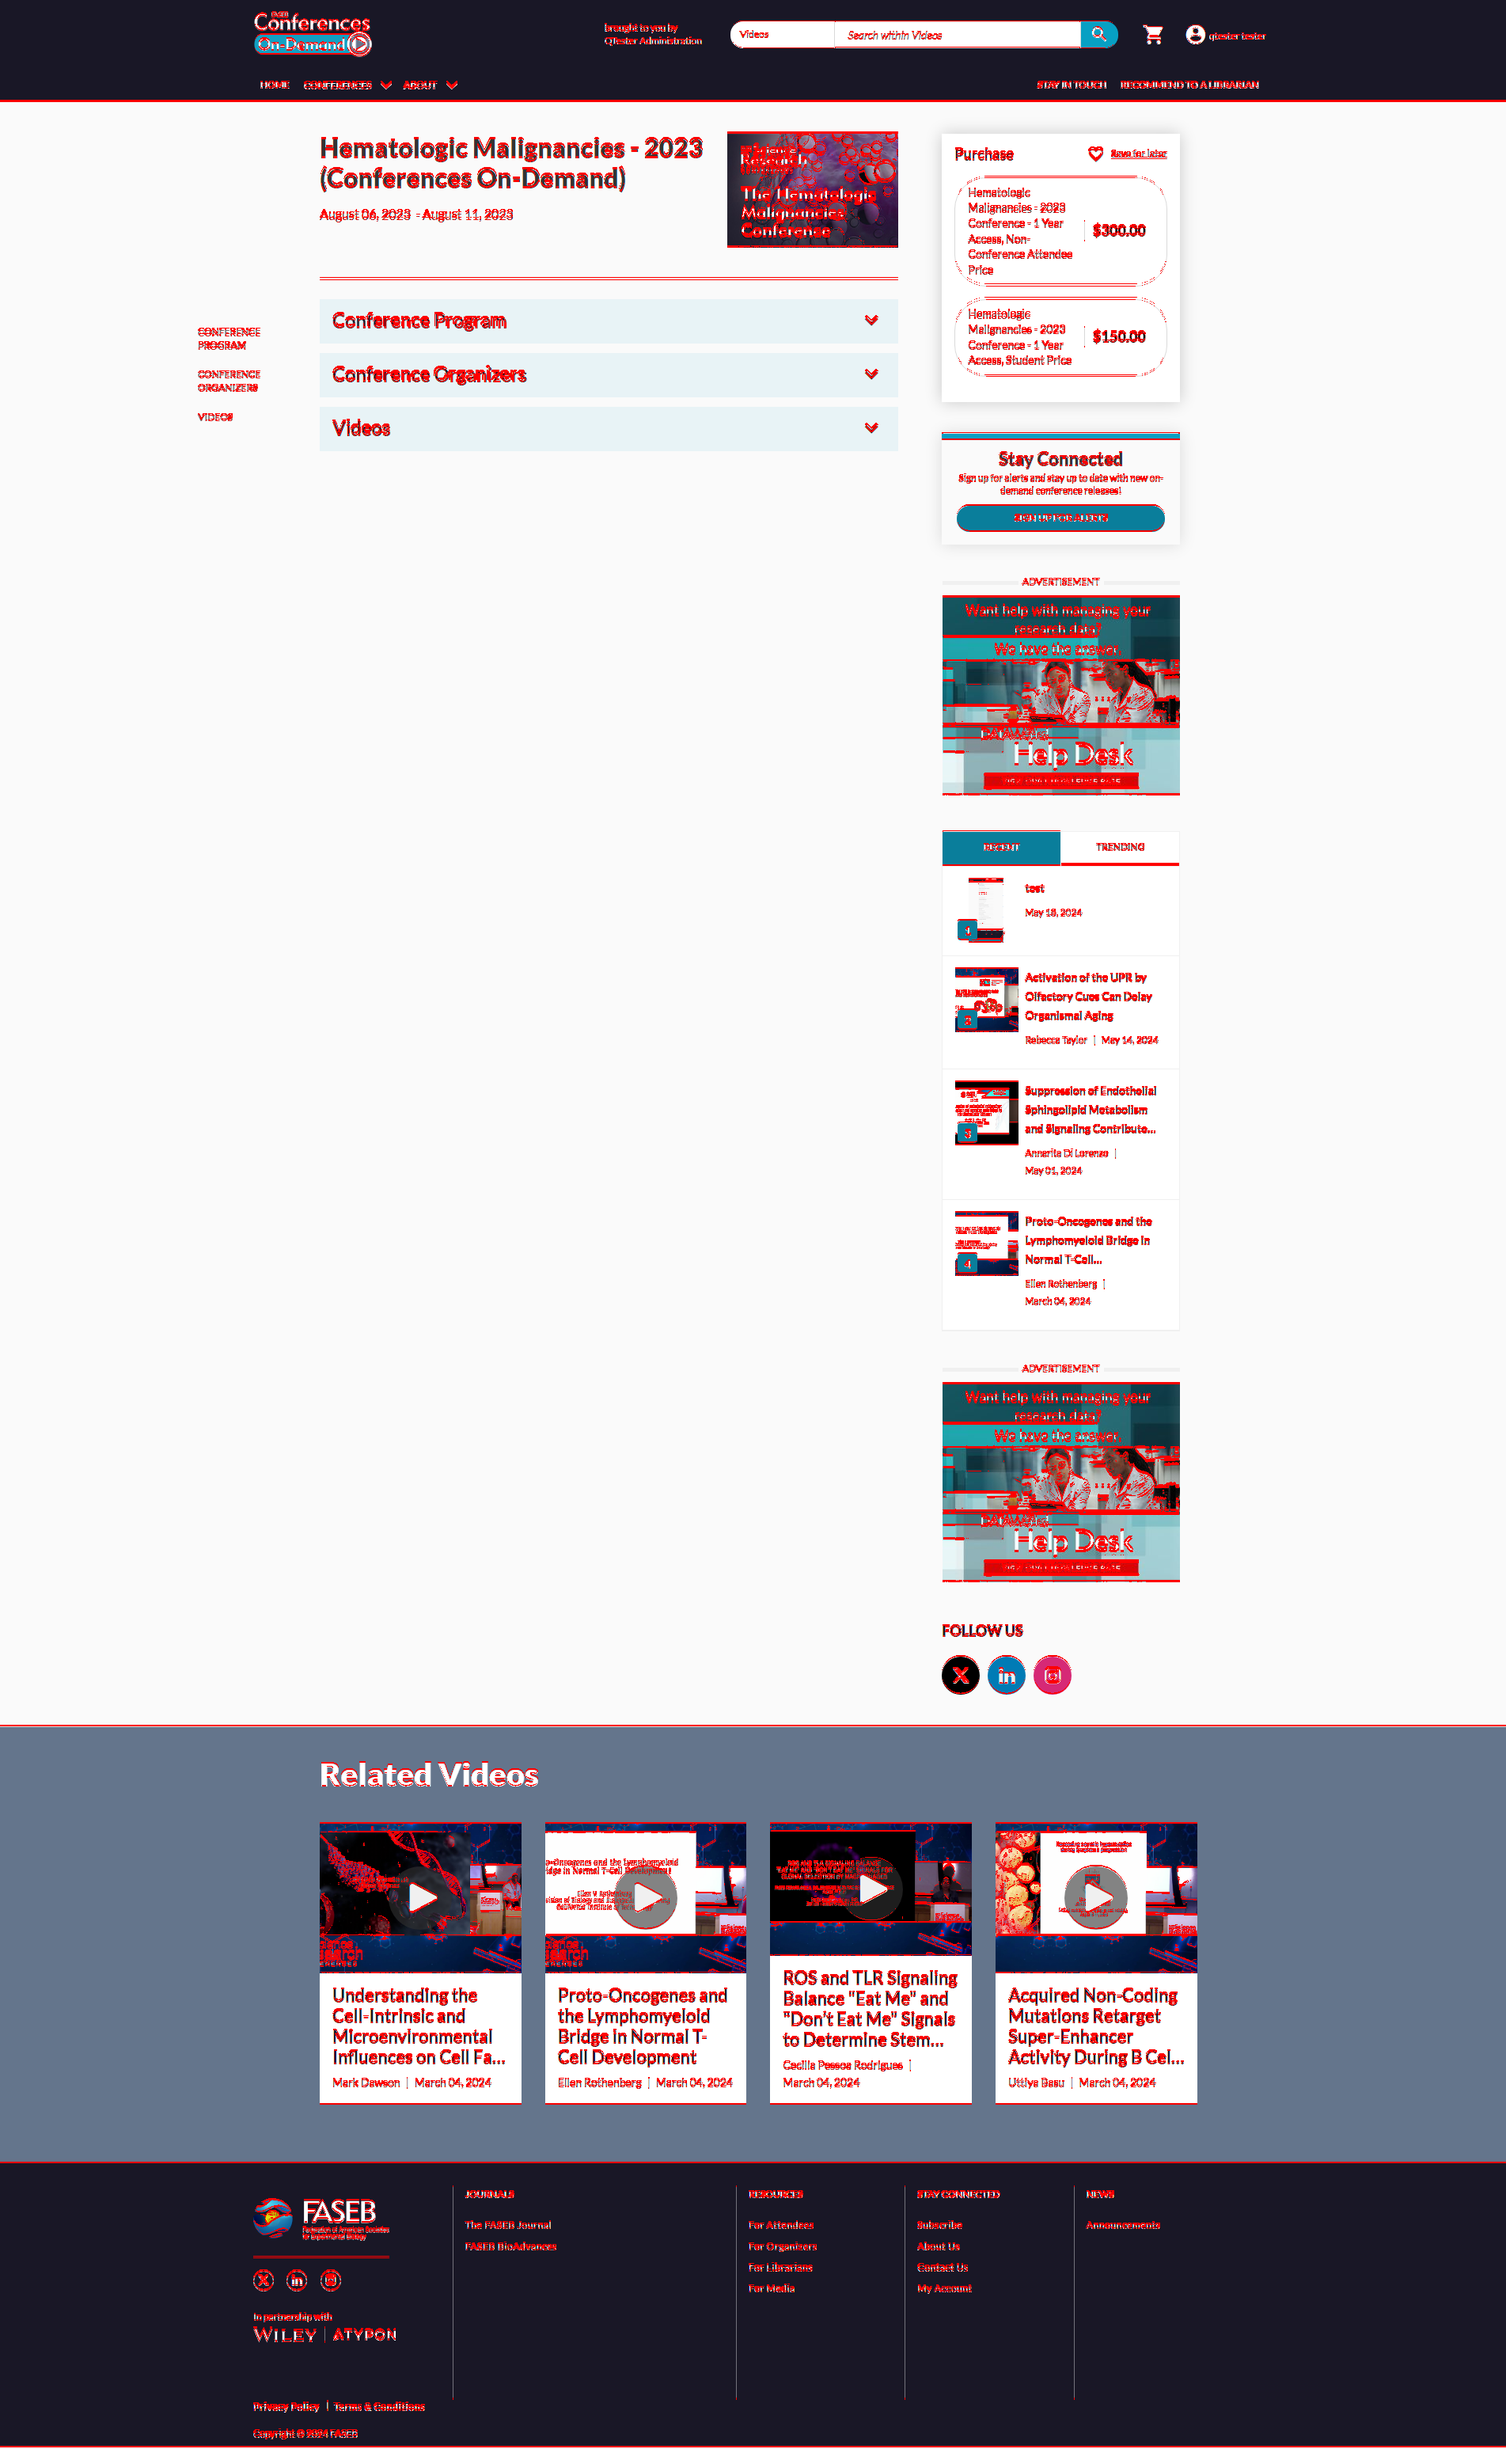
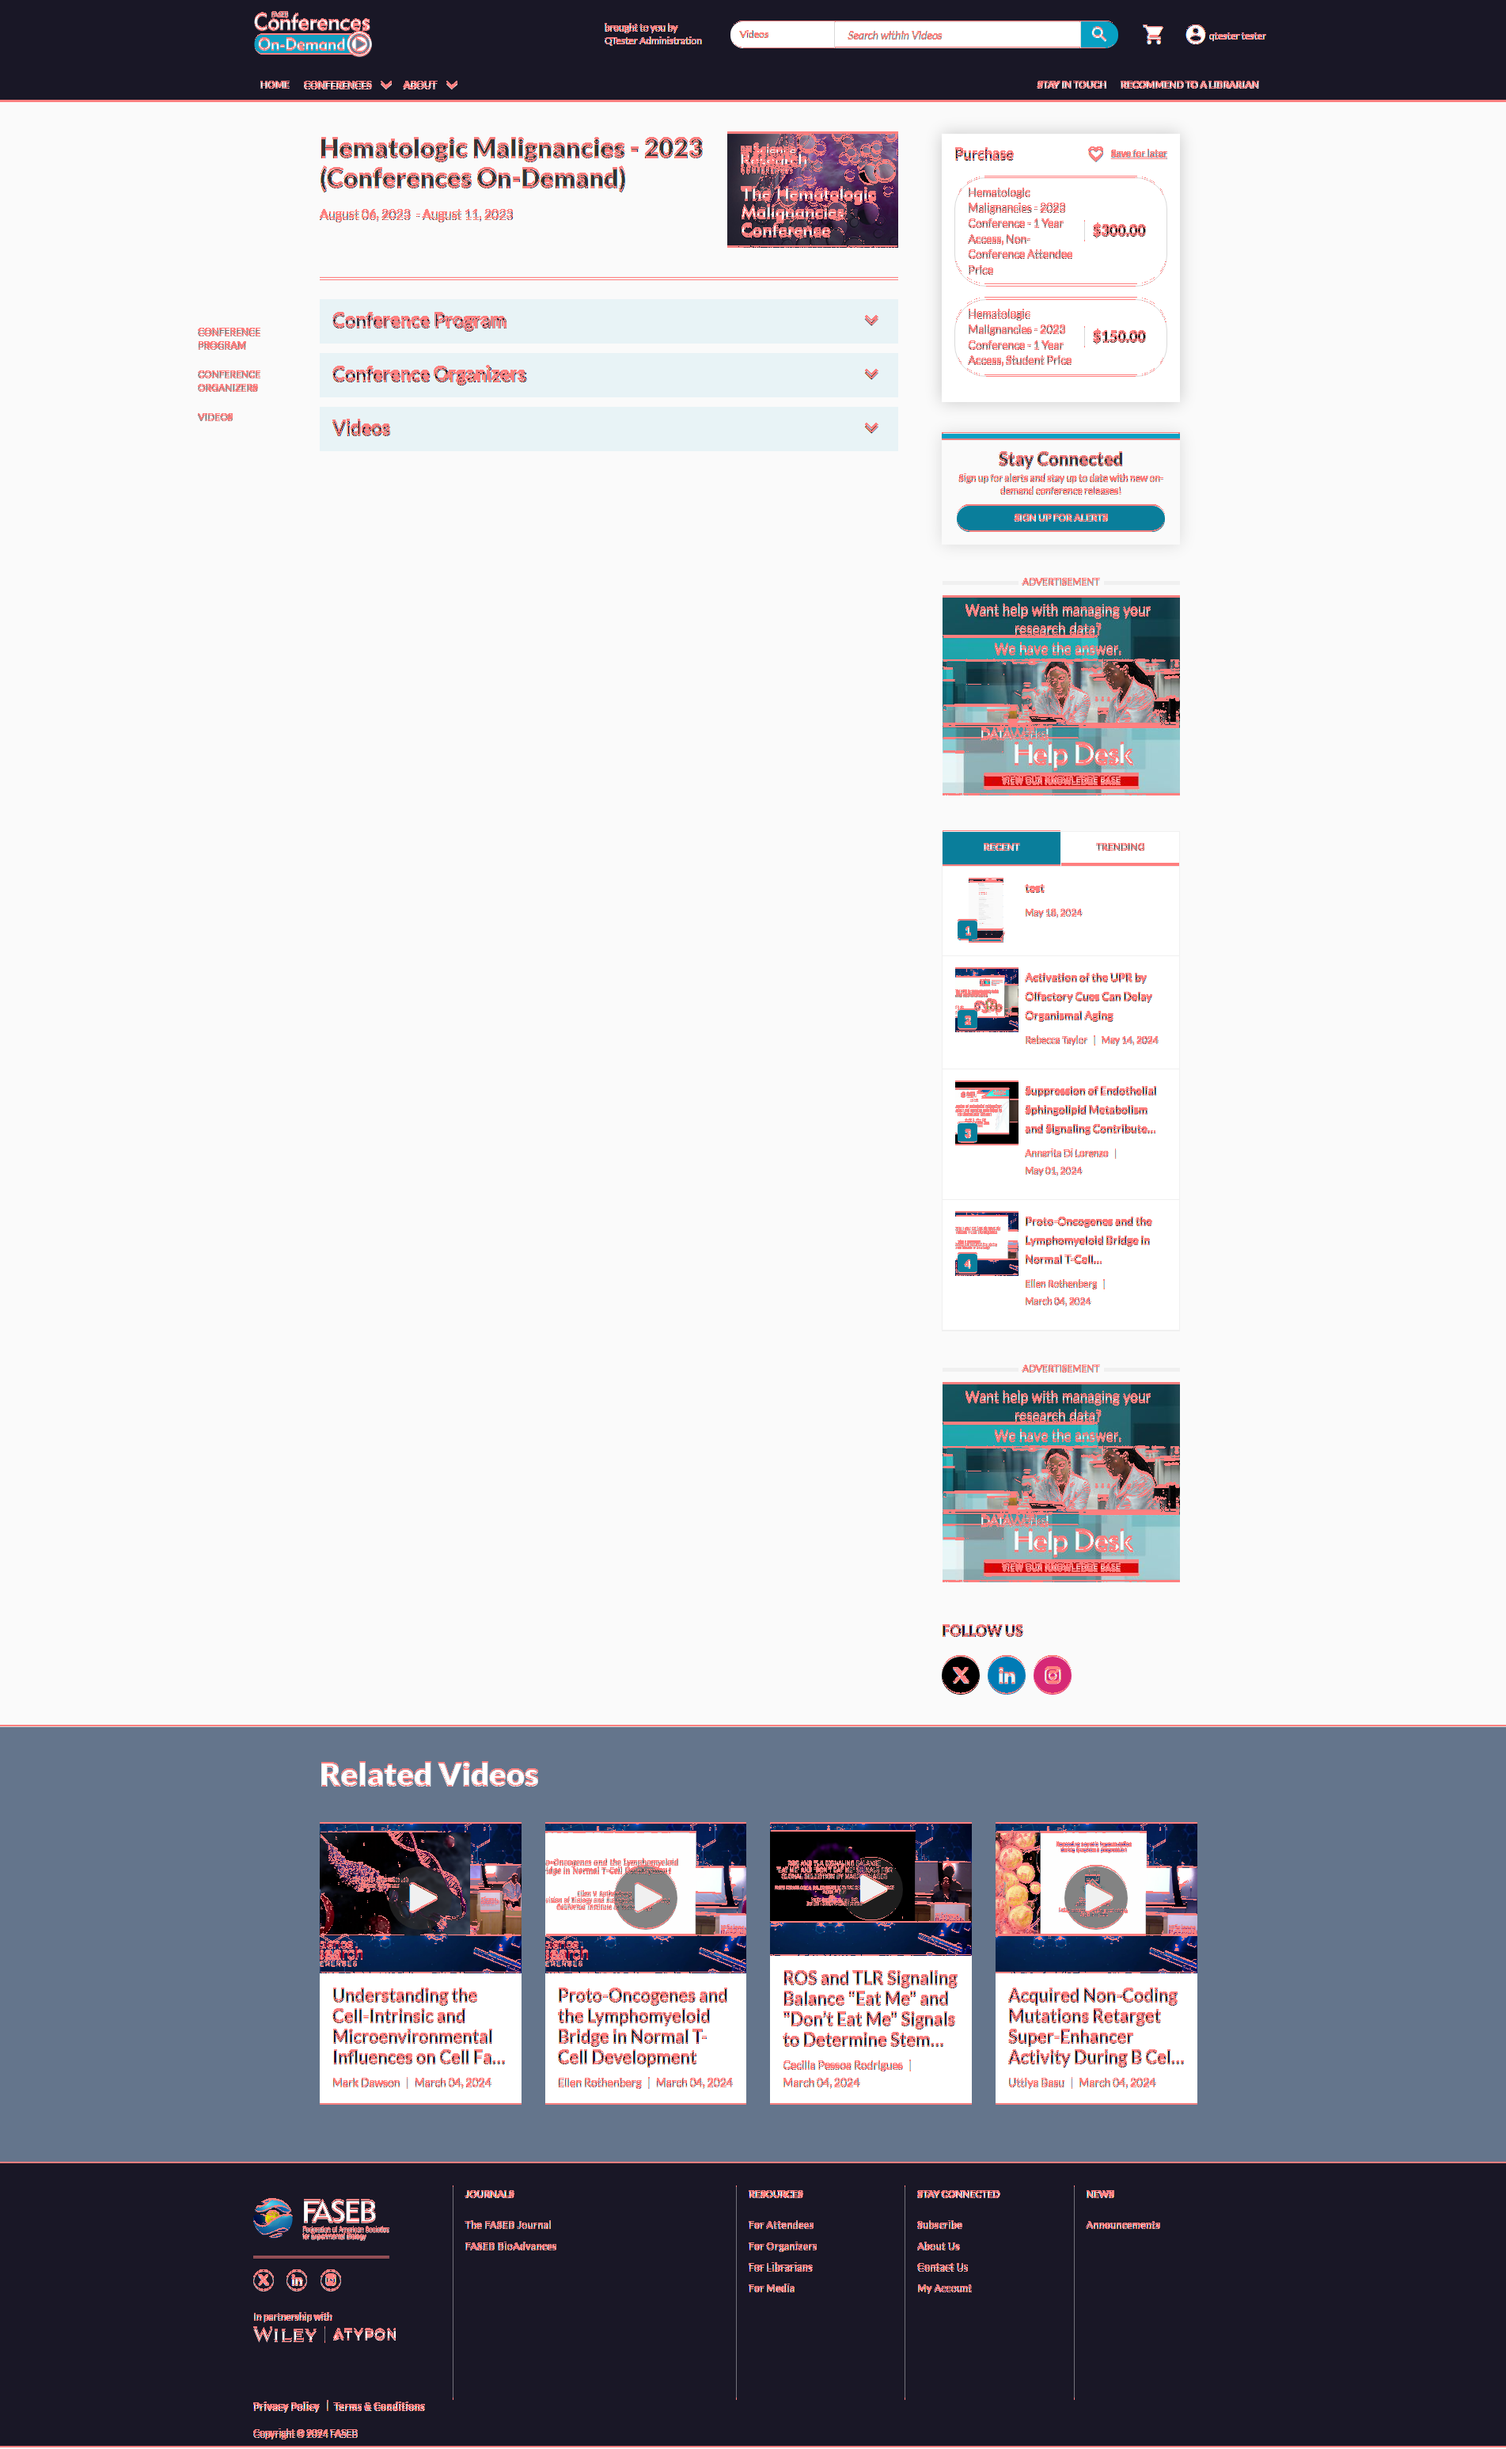
add opaque and transparent feature

diff --git a/src/ImageComparator.cpp b/src/ImageComparator.cpp
@@ -6,7 +6,7 @@
 #include <cmath>
 
 ImageComparator::ImageComparator(const std::string& imgPath1, const std::string& imgPath2)
-    : imgPath1(imgPath1), imgPath2(imgPath2), mismatchPaintColor(cv::Vec3b(0, 0, 255)), ignoreAntialiasing(true), ignoreColors(false), ignoreAlpha(false), pixelThreshold(0.1), errorPixelTransform(ErrorPixelTransform::flat) {} // Default values
+    : imgPath1(imgPath1), imgPath2(imgPath2), mismatchPaintColor(cv::Vec3b(0, 0, 255)), ignoreAntialiasing(true), ignoreColors(false), ignoreAlpha(false), pixelThreshold(0.1), highlightTransparency(255), errorPixelTransform(ErrorPixelTransform::flat) {} // Default values
 
 void ImageComparator::setMismatchPaintColor(const cv::Vec3b& color) {
     mismatchPaintColor = color;
@@ -38,6 +38,10 @@ void ImageComparator::setIgnoreBoxes(const std::vector<Box>& boxes) {
     boundingBoxes.clear(); // Clear boundingBoxes if ignoreBoxes are set
 }
 
+void ImageComparator::setHighlightTransparency(int value) {
+    highlightTransparency = value;
+}
+
 void ImageComparator::setErrorPixelTransform(void (*transformFunc)(cv::Vec4b&, const cv::Vec4b&, const cv::Vec4b&, const cv::Vec4b&)) {
     errorPixelTransform = transformFunc;
 }
@@ -59,7 +63,7 @@ bool ImageComparator::isInIgnoreBox(int x, int y) const {
     }
     return false;
 }
-// returns true if there is a mismatch 
+
 bool ImageComparator::comparePixels(const cv::Mat& img1, const cv::Mat& img2, int x, int y, int width, int height) const {
     try {
         if (x >= width || y >= height) {
@@ -154,7 +158,7 @@ void ImageComparator::exactComparison(const std::string& outputPath) const {
         cv::Mat resultImg = baseCanvas.clone();
 
         // Convert mismatchPaintColor from Vec3b to Vec4b
-        cv::Vec4b mismatchColor4b(mismatchPaintColor[0], mismatchPaintColor[1], mismatchPaintColor[2], 255);
+        cv::Vec4b mismatchColor4b(mismatchPaintColor[0], mismatchPaintColor[1], mismatchPaintColor[2], highlightTransparency);
 
         int mismatchedPixels = 0;
         for (int y = 0; y < maxHeight; ++y) {

diff --git a/src/main.cpp b/src/main.cpp
@@ -56,6 +56,7 @@ int main(int argc, char** argv) {
     bool ignoreAlpha = false; // Default false
     double pixelThreshold = 0.1; // Default threshold value
     std::string transformType = "flat"; // Default transform type
+    int highlightTransparency = 255; // Default opaque ib case of transparent we keep it 128
     std::vector<Box> boundingBoxes;
     std::vector<Box> ignoreBoxes;
 
@@ -73,6 +74,8 @@ int main(int argc, char** argv) {
             pixelThreshold = std::stod(argv[++i]);
         } else if (std::string(argv[i]) == "--transformType" && i + 1 < argc) {
             transformType = argv[++i];
+        } else if (std::string(argv[i]) == "--highlightTransparency" && i + 1 < argc) {
+            highlightTransparency = std::stoi(argv[++i]);
         } else if (std::string(argv[i]) == "--boundingBoxes" && i + 4 < argc) {
             boundingBoxes = parseBoxes(argc, argv, i + 1);
             i += boundingBoxes.size() * 4;
@@ -94,6 +97,7 @@ int main(int argc, char** argv) {
         comparator.setIgnoreColors(ignoreColors);
         comparator.setIgnoreAlpha(ignoreAlpha);
         comparator.setPixelThreshold(pixelThreshold);
+        comparator.setHighlightTransparency(highlightTransparency);
         setErrorPixelTransformFunction(comparator, transformType);
 
         if (!boundingBoxes.empty()) {

diff --git a/include/ImageComparator.h b/include/ImageComparator.h
@@ -23,6 +23,7 @@ public:
     void setPixelThreshold(double value);
     void setBoundingBoxes(const std::vector<Box>& boxes);
     void setIgnoreBoxes(const std::vector<Box>& boxes);
+    void setHighlightTransparency(int value); // New method to set transparency
     void setErrorPixelTransform(void (*transformFunc)(cv::Vec4b&, const cv::Vec4b&, const cv::Vec4b&, const cv::Vec4b&));
     void exactComparison(const std::string& outputPath) const;
 
@@ -34,6 +35,7 @@ private:
     bool ignoreColors;
     bool ignoreAlpha;
     double pixelThreshold;
+    int highlightTransparency; 
     std::vector<Box> boundingBoxes;
     std::vector<Box> ignoreBoxes;
     void (*errorPixelTransform)(cv::Vec4b&, const cv::Vec4b&, const cv::Vec4b&, const cv::Vec4b&);
